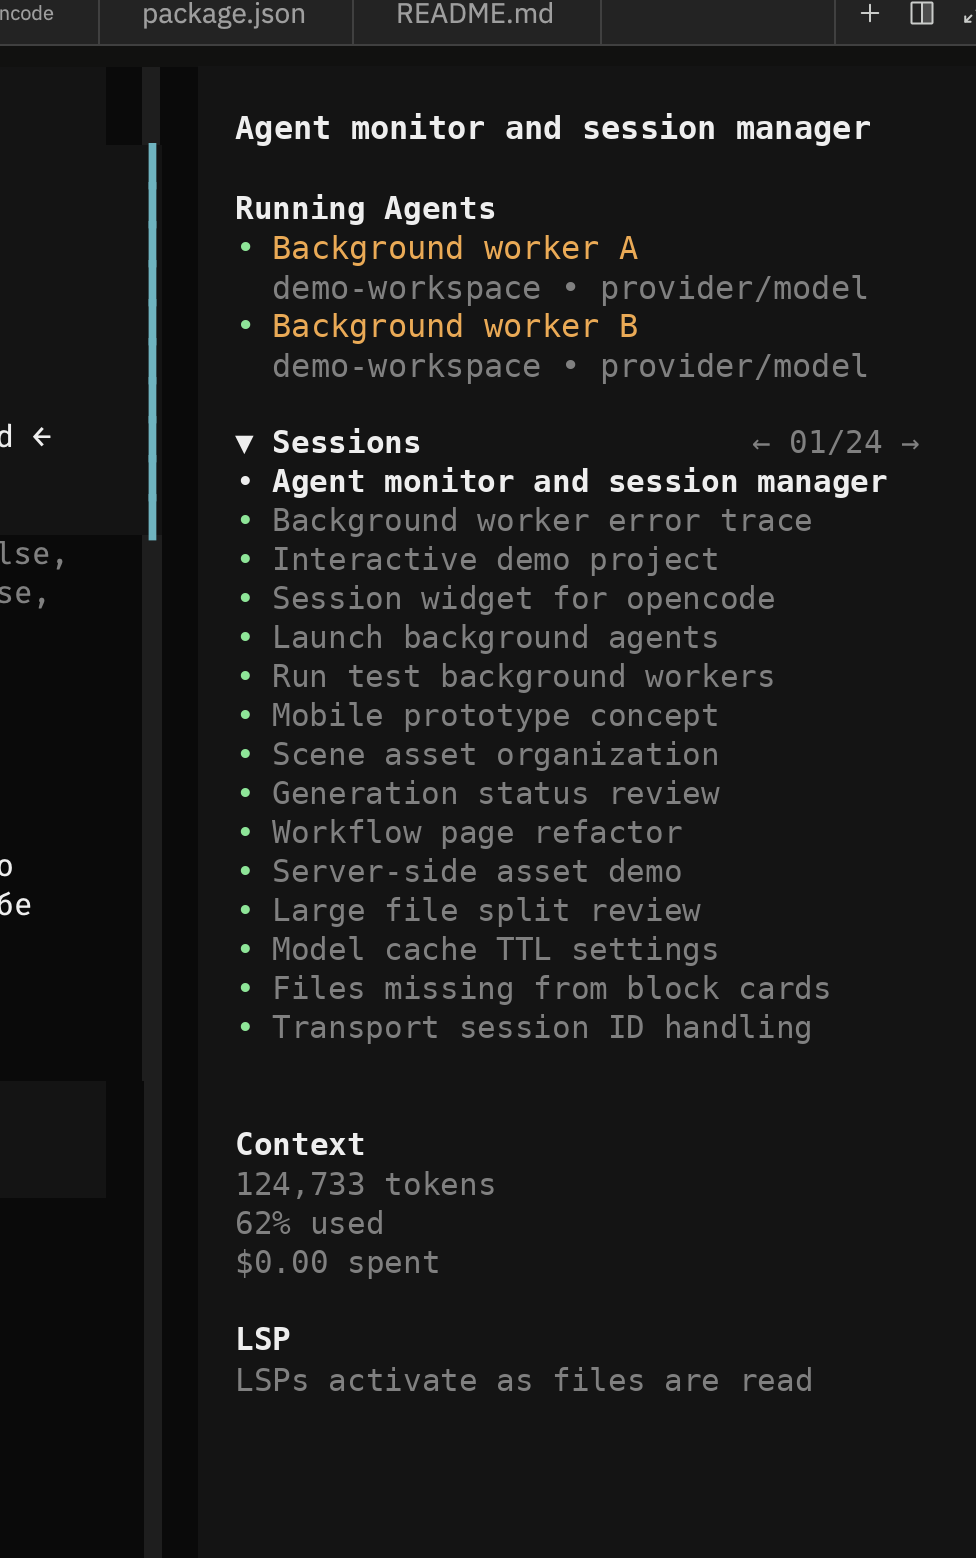
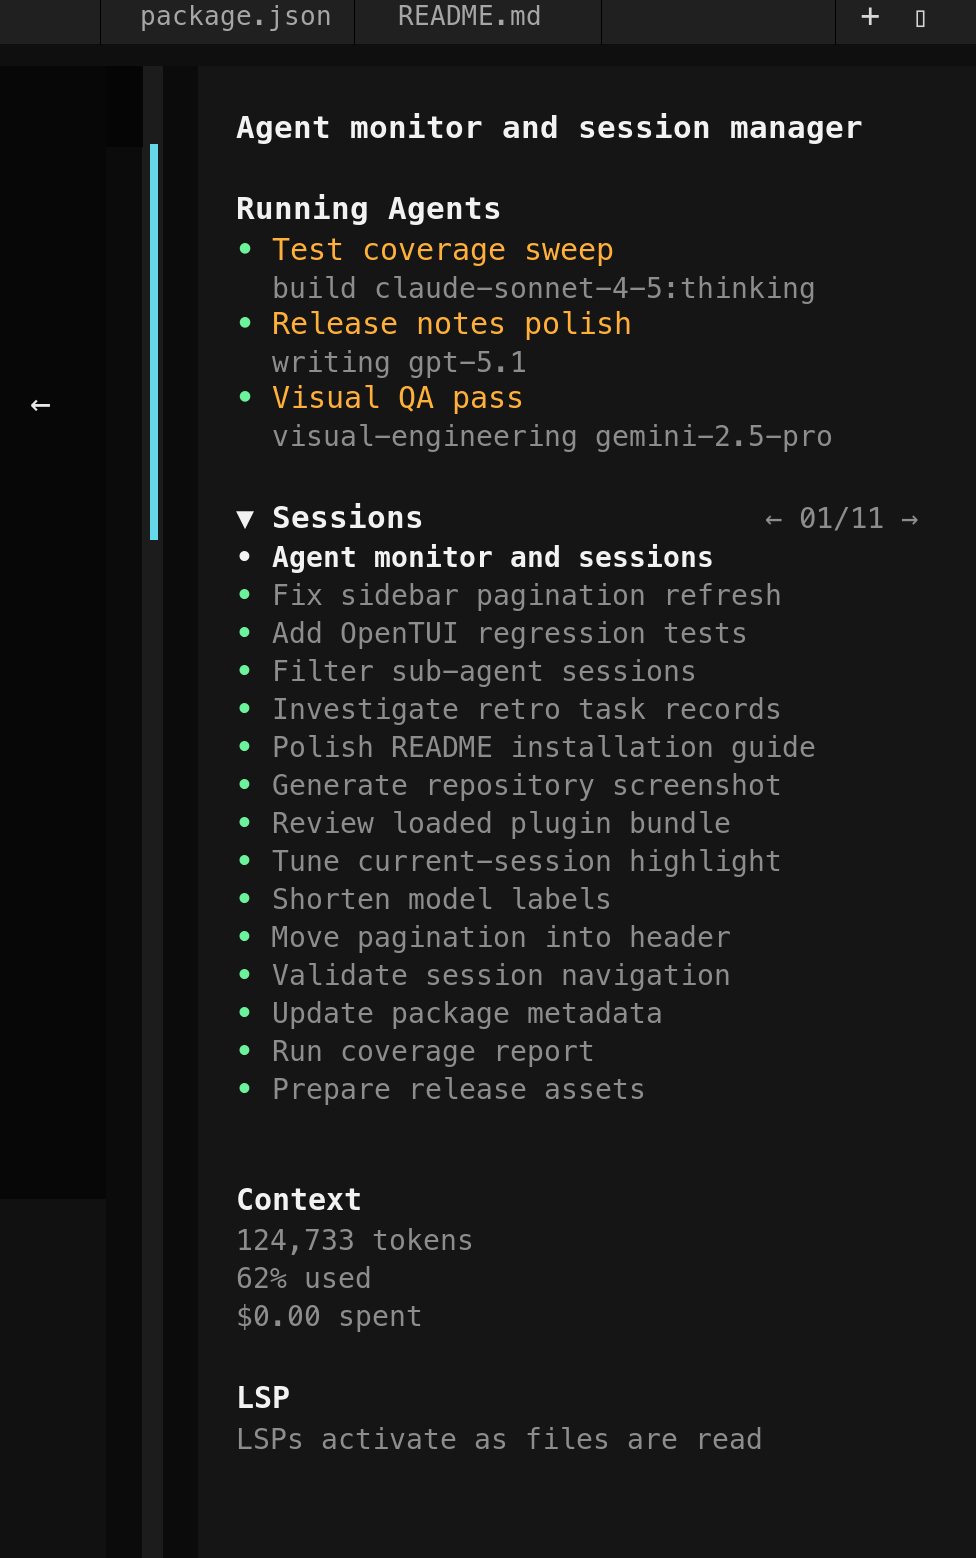
Bump version to 0.2.0 and update README
Add detailed features, sidebar behavior, and development guide.
Bump version to 0.2.0 and update README

diff --git a/README.md b/README.md
@@ -1,10 +1,44 @@
 # opencode-sidebar-background-sessions
 
-OpenCode TUI plugin that shows running background sub-agents in the session sidebar.
+OpenCode TUI sidebar plugin for background agents and quick session navigation.
 
-It adds a `Running Agents` section above the normal sidebar content and lists background task agents while their sub-agent session is still busy. As a fallback, completed task entries are also removed once their matching `background_output` is collected.
+It adds two sidebar sections:
+
+- `Running Agents` — shows currently active background sub-agent sessions and lets you jump into them.
+- `Sessions` — a collapsible project-session accordion with paginated navigation between recent sessions.
 
 ![demo](demo.png)
+
+## Features
+
+- Shows active background task agents in the sidebar while their child session is still running.
+- Hides completed/idle retro task records so old sessions do not appear to have stuck agents.
+- Enriches running-agent rows with child session agent/model metadata when OpenCode exposes it.
+- Shortens model labels to the final model segment, for example `openrouter/anthropic/claude-sonnet-4-5` becomes `claude-sonnet-4-5`.
+- Adds a `Sessions` accordion that is collapsed by default.
+- Lists project sessions only (`scope: "project"`) and filters out sub-agent sessions from the session navigator.
+- Shows 15 sessions per page with right-aligned header controls like `← 01/11 →`.
+- Highlights the current session and navigates on click to any other visible session.
+
+## Sidebar behavior
+
+When background agents are active, the plugin renders `Running Agents` above the session navigator. Clicking a running-agent row navigates to that sub-agent session.
+
+The `Sessions` accordion is always rendered. It starts collapsed as:
+
+```text
+▶ Sessions
+```
+
+When expanded, it renders session rows and pagination controls in the accordion header:
+
+```text
+▼ Sessions                                           ← 01/11 →
+• Current project session
+• Another project session
+```
+
+The arrows are always visible when sessions are loaded. Active arrows are bright; inactive arrows are muted. Clicking pagination controls changes the visible page without collapsing the accordion.
 
 ## Installation
 
@@ -48,7 +82,7 @@ bun add opencode-sidebar-background-sessions
 }
 ```
 
-Restart OpenCode after installing. When background task agents are running, the sidebar shows a `Running Agents` section above the normal sidebar content.
+Restart OpenCode after installing. The sidebar will render the `Sessions` accordion even when there are no running background agents.
 
 Do not use `opencode plugin -g` for this package if your OpenCode version writes plugin entries to `opencode.json`; that command is for server plugins, while this package is loaded by the TUI plugin runtime.
 
@@ -71,8 +105,21 @@ Then point OpenCode at the package root — it will resolve the `./tui` export f
 }
 ```
 
+## Development
+
+```bash
+bun install
+bun run typecheck
+bun run test
+bun run test:coverage
+bun run build
+```
+
+The test suite builds the plugin first and then drives the compiled TUI plugin through OpenTUI's `testRender` harness. It covers the regressions that shaped the current behavior: accordion collapse, header pagination, project-scoped session loading, sub-agent filtering, stale page refreshes, false `Running Agents` rows from old completed task records, running-agent navigation, and agent/model metadata formatting.
+
 ## Notes
 
 - This is a TUI plugin, so it is configured in `tui.json`, not `opencode.json`.
 - The normal OpenCode Status dialog lists server plugins; TUI plugins may not appear there.
 - The plugin intentionally does not mutate session titles. It reads the current TUI session state and renders only in the sidebar.
+- If you update an installed copy under `~/.config/opencode/node_modules`, restart the OpenCode TUI so the plugin bundle is reloaded.
